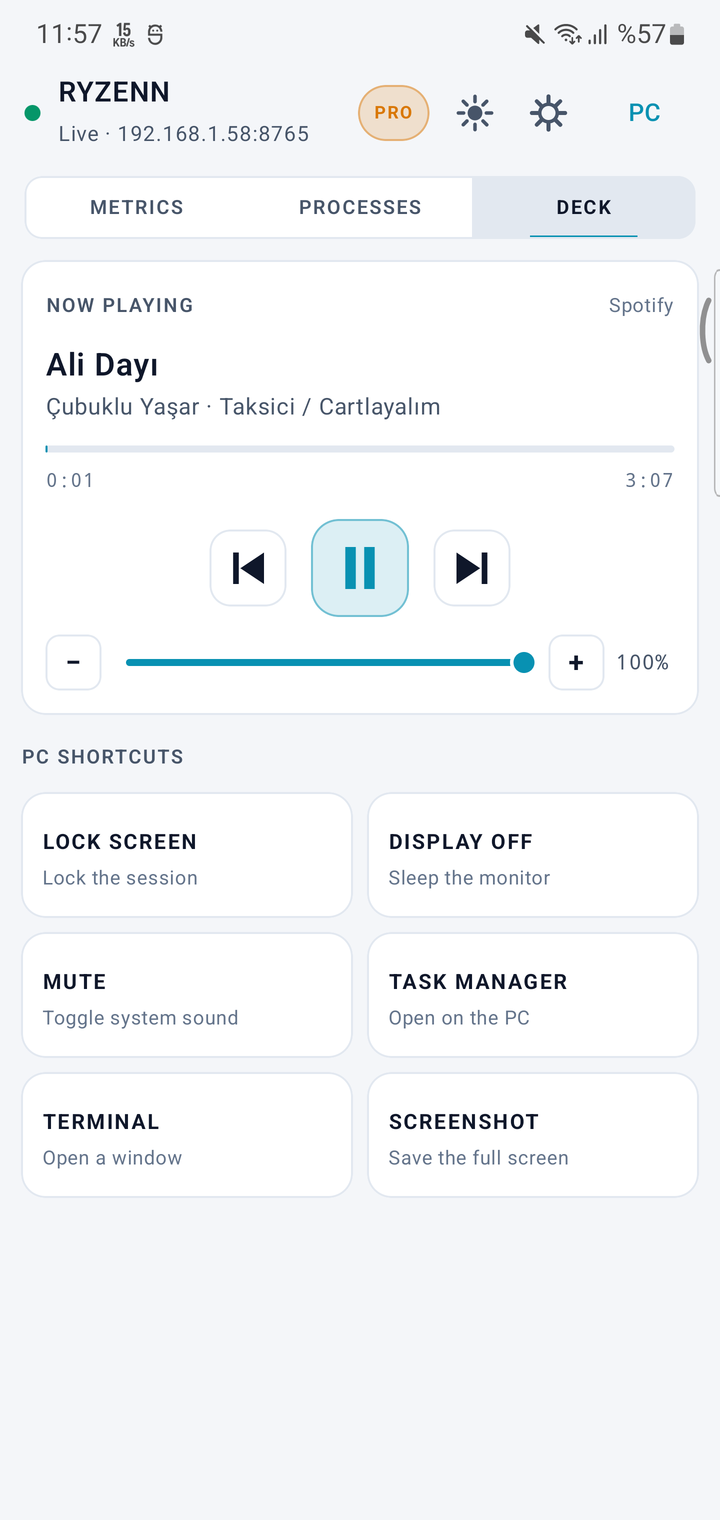
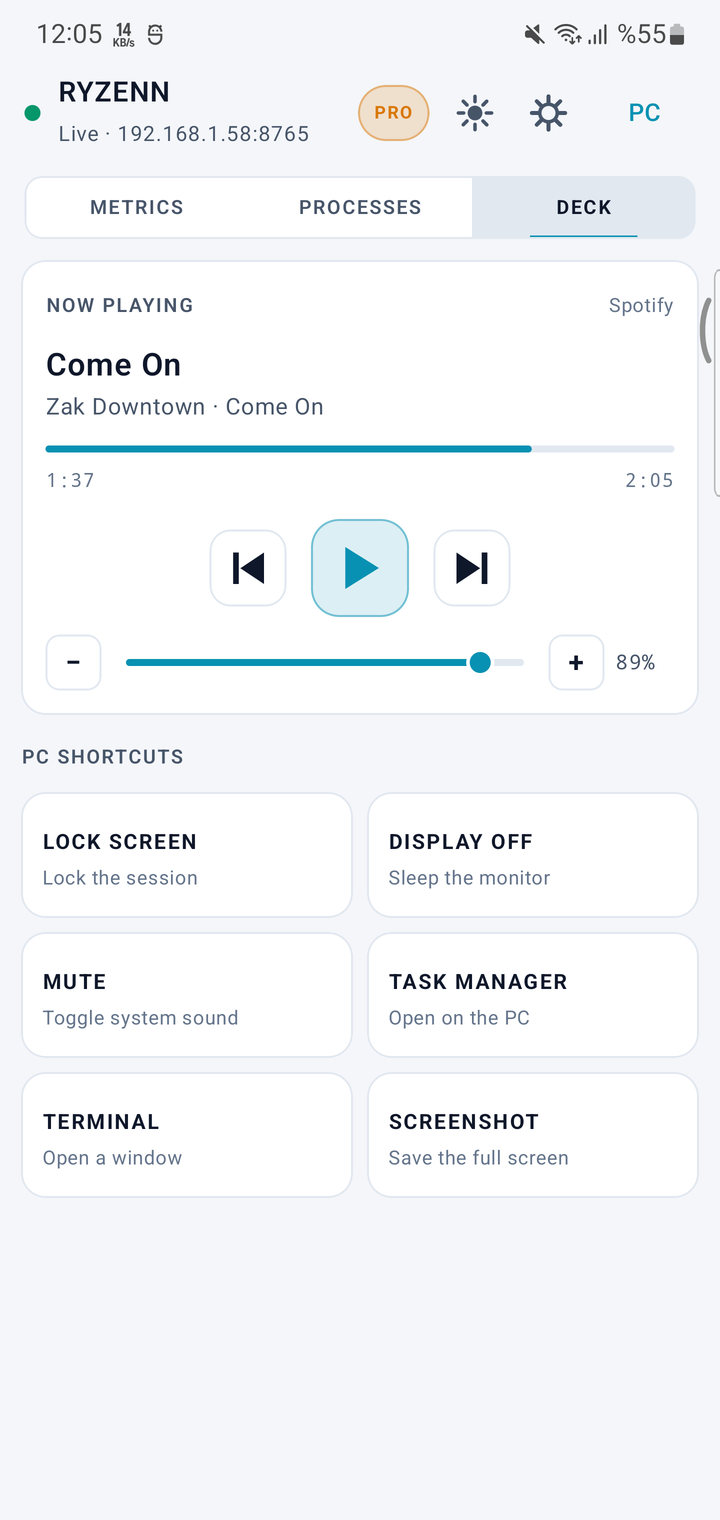
docs: add phone landscape screenshots, refresh light deck capture

diff --git a/README.md b/README.md
@@ -56,6 +56,23 @@ Real captures from a Ryzen 5 5600 + Radeon RX 6700 XT desktop, taken on a phone 
   </tr>
 </table>
 
+### Phone, landscape (desk OSD)
+
+Turn the phone sideways and it becomes a full-screen, no-scroll dashboard that keeps the screen on.
+
+<p align="center">
+  <img src="assets/screenshots/phone-land-dark-metrics.png" width="49%" alt="Phone landscape OSD, dark">
+  <img src="assets/screenshots/phone-land-light-metrics.png" width="49%" alt="Phone landscape OSD, light">
+</p>
+<p align="center">
+  <img src="assets/screenshots/phone-land-dark-processes.png" width="49%" alt="Phone landscape processes, dark">
+  <img src="assets/screenshots/phone-land-light-processes.png" width="49%" alt="Phone landscape processes, light">
+</p>
+<p align="center">
+  <img src="assets/screenshots/phone-land-dark-deck.png" width="49%" alt="Phone landscape deck, dark">
+  <img src="assets/screenshots/phone-land-light-deck.png" width="49%" alt="Phone landscape deck, light">
+</p>
+
 ### Tablet (desk OSD)
 
 <p align="center">
